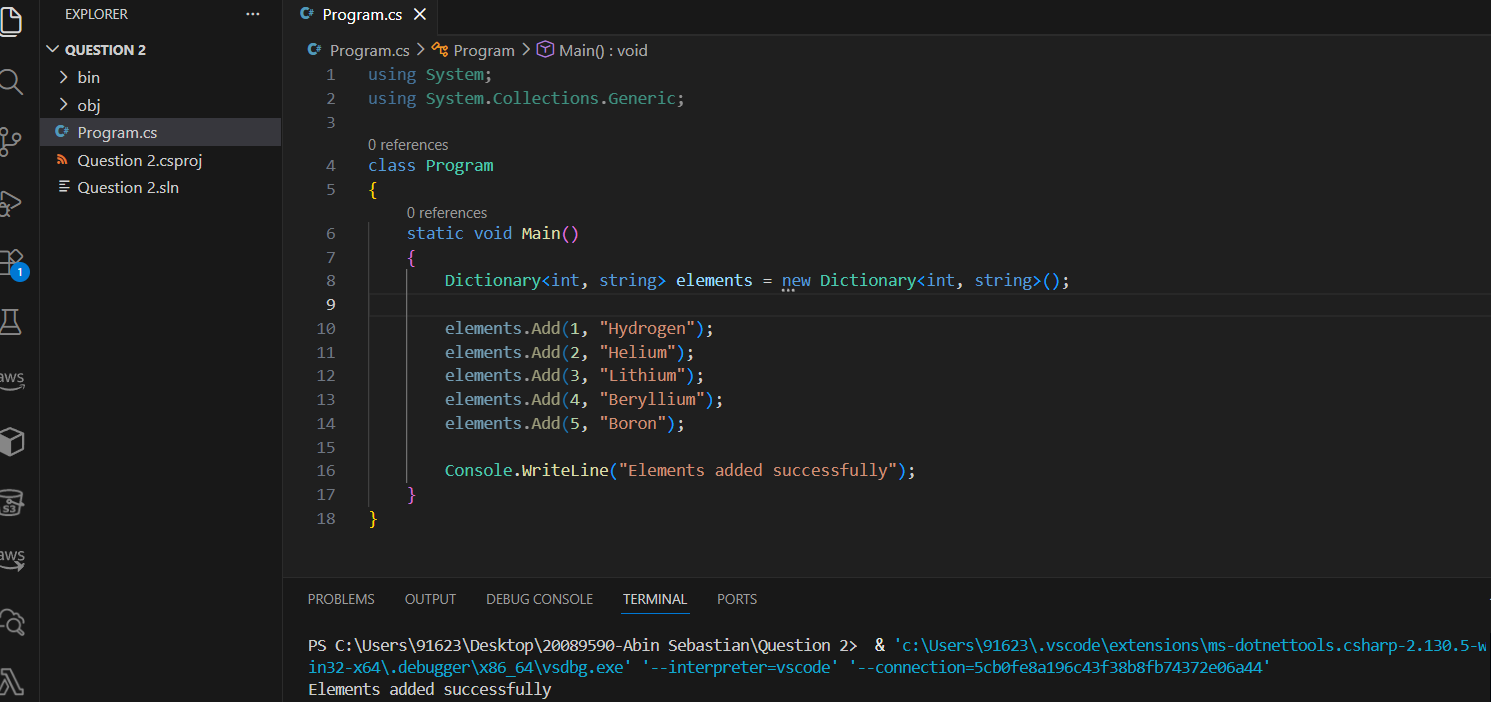
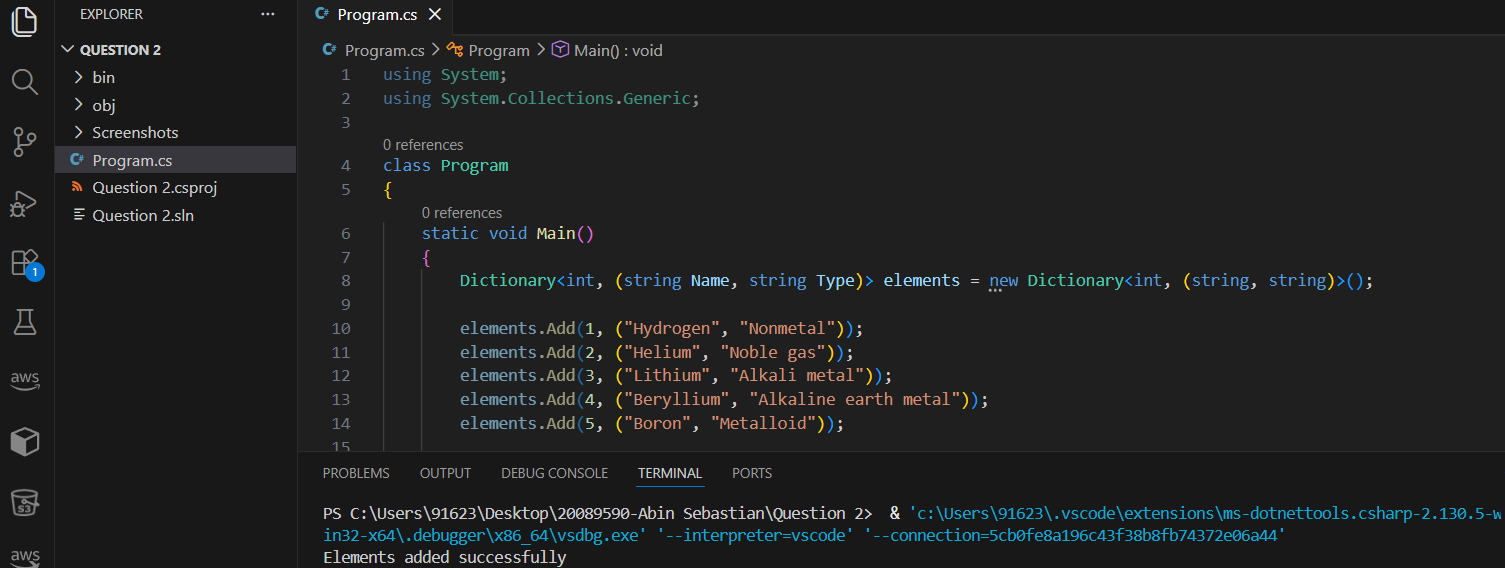
Added element types

diff --git a/Question 2/Program.cs b/Question 2/Program.cs
@@ -5,19 +5,19 @@ class Program
 {
     static void Main()
     {
-        Dictionary<int, string> elements = new Dictionary<int, string>();
-
-        elements.Add(1, "Hydrogen");
-        elements.Add(2, "Helium");
-        elements.Add(3, "Lithium");
-        elements.Add(4, "Beryllium");
-        elements.Add(5, "Boron");
+        Dictionary<int, (string Name, string Type)> elements = new Dictionary<int, (string, string)>();
+        
+        elements.Add(1, ("Hydrogen", "Nonmetal"));
+        elements.Add(2, ("Helium", "Noble gas"));
+        elements.Add(3, ("Lithium", "Alkali metal"));
+        elements.Add(4, ("Beryllium", "Alkaline earth metal"));
+        elements.Add(5, ("Boron", "Metalloid"));
 
         Console.WriteLine("Elements List:");
 
         foreach (var element in elements)
-        {
-            Console.WriteLine(element.Key + " - " + element.Value);
-        }
+{
+    Console.WriteLine(element.Key + " - " + element.Value.Name + " (" + element.Value.Type + ")");
+}
     }
 }

diff --git a/Question 2/obj/Debug/net10.0/Question 2.AssemblyInfo.cs b/Question 2/obj/Debug/net10.0/Question 2.AssemblyInfo.cs
@@ -13,7 +13,7 @@ using System.Reflection;
 [assembly: System.Reflection.AssemblyCompanyAttribute("Question 2")]
 [assembly: System.Reflection.AssemblyConfigurationAttribute("Debug")]
 [assembly: System.Reflection.AssemblyFileVersionAttribute("1.0.0.0")]
-[assembly: System.Reflection.AssemblyInformationalVersionAttribute("1.0.0+e7b6351f1203e8baf55f03c80e8ae5d4750b7541")]
+[assembly: System.Reflection.AssemblyInformationalVersionAttribute("1.0.0+9a8c22dbcc93a3bd0db1f19ea67b6acd10af16f1")]
 [assembly: System.Reflection.AssemblyProductAttribute("Question 2")]
 [assembly: System.Reflection.AssemblyTitleAttribute("Question 2")]
 [assembly: System.Reflection.AssemblyVersionAttribute("1.0.0.0")]
